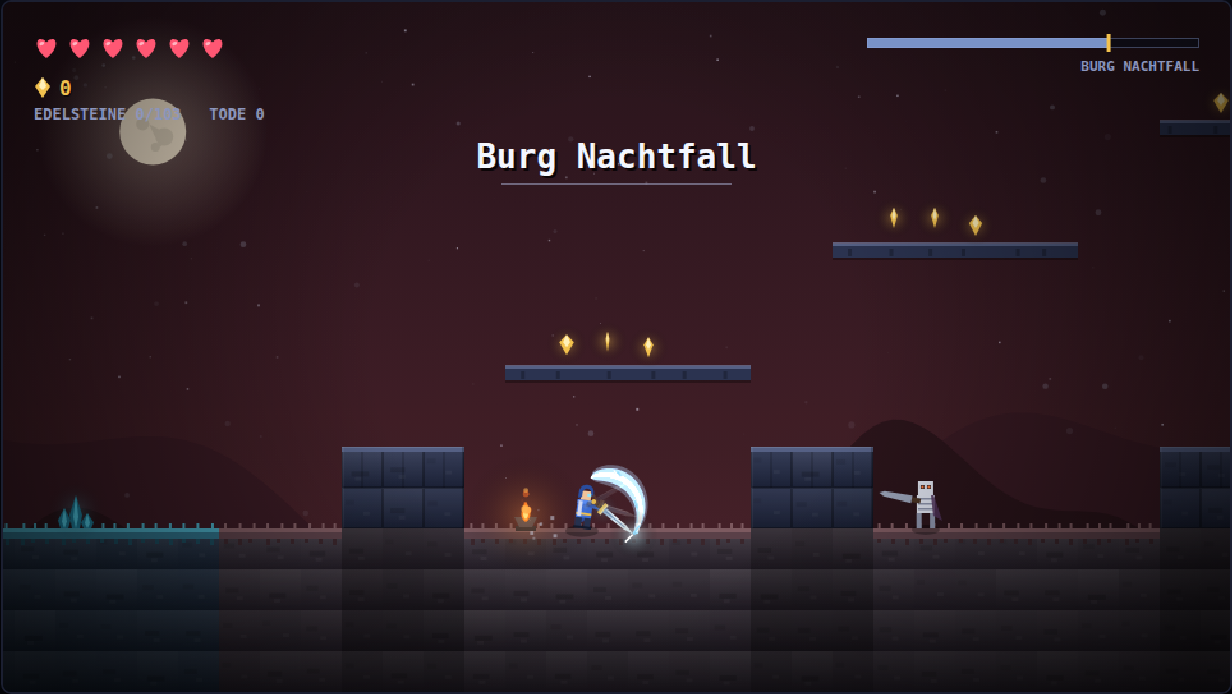
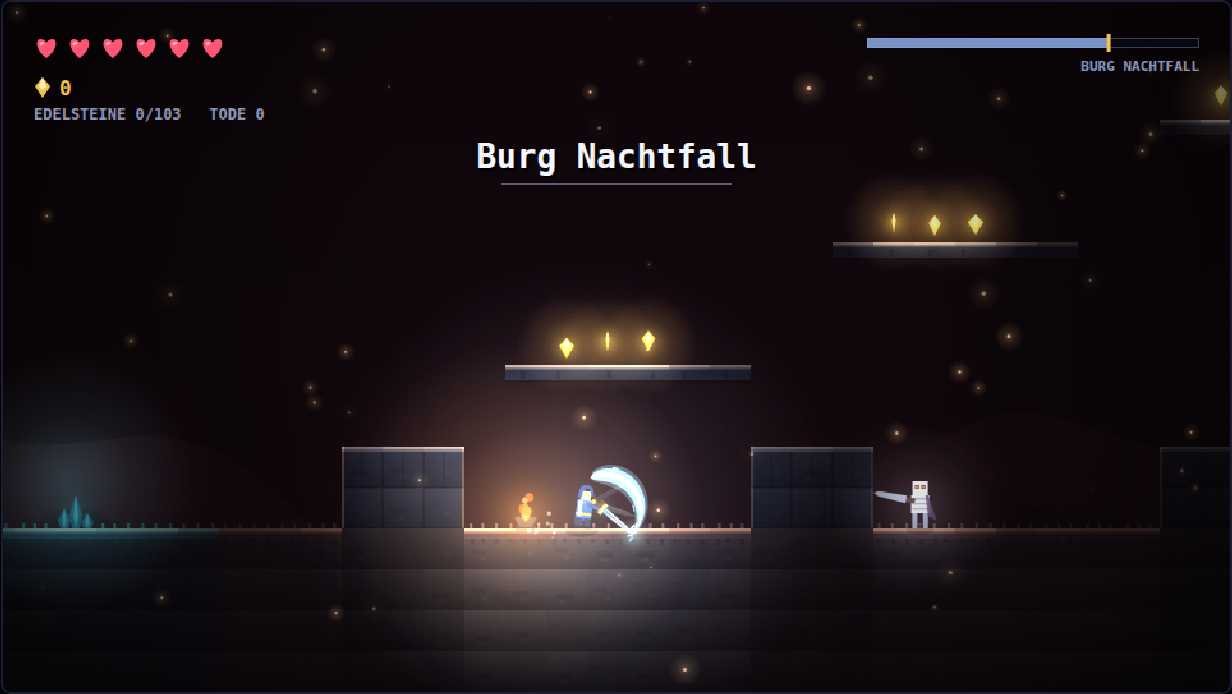
Kantenlicht folgt den Lichtquellen, Screenshots erneuert
Die zweite Bewertungsrunde erklärt den Umbau für abnehmbar: alle sechs
Ausgangsmängel behoben, mit Messwerten - Plattformkanten drei- bis achtfach
über dem Hintergrund, Fledermaus 49,6 gegen 11,5, Spieler wieder über dem
Boss-Kern, kein Clipping mehr bei den Sporen, Mond und Sterne weg.

Ein neuer Stilmangel wurde benannt und ist hiermit erledigt: Die Kantenlichter
waren überall exakt gleich hell, auch weit weg von jeder Fackel, und wirkten
dadurch wie gezeichnete Linien statt wie Licht. Jetzt hält die Kante nur noch
einen Sockel, der die Lesbarkeit sichert, und steigt zu den Lichtquellen hin
an; dazu eine leichte Körnung aus dem Kachelrauschen, damit sie nicht
mechanisch gleichmäßig wirkt.

Nebenbefund der Bewertung ebenfalls behoben: Der Kantenpass lief auch über die
Spalten außerhalb der Karte, weil tileAt dort Fels zurückgibt. Am linken
Bildrand entstand so eine Steilwand, die keine ist.

Der Pass setzt die Deckkraft jetzt über globalAlpha statt über einen rgba-String
pro Kachel - das hatte die Bildzeit von 2,9 auf 4,9 ms getrieben. Jetzt wieder
2,6 bis 3,2 ms bei 16,67 ms Budget.

Screenshots im README auf den neuen Stand gebracht. verify:level und
verify:arena grün, der Bot des Screenshot-Werkzeugs erreicht weiterhin
"victory".

Claude-Session: https://claude.ai/code/session_01EsRtGqcW8VTkgS1azrrWNy

diff --git a/src/render/rims.ts b/src/render/rims.ts
@@ -1,6 +1,7 @@
 import { Camera } from '../core/camera';
 import { Level } from '../world/level';
 import { TILE, Tile } from '../world/tiles';
+import type { Light } from './lighting';
 
 /**
  * Readability pass, drawn after the lighting.
@@ -10,6 +11,10 @@ import { TILE, Tile } from '../world/tiles';
  * which surface carries. So every face that borders empty space keeps a lit
  * rim, no matter how far away the nearest torch is. It doubles as the rim
  * lighting the style calls for.
+ *
+ * The rim is not uniform: it holds a floor bright enough to read, and rises
+ * towards the light sources near it. A rim of constant brightness reads as a
+ * drawn outline instead of light falling on an edge.
  */
 export function drawEdgeLight(
   ctx: CanvasRenderingContext2D,
@@ -18,6 +23,7 @@ export function drawEdgeLight(
   viewW: number,
   viewH: number,
   rgb: string,
+  lights: readonly Light[],
 ): void {
   const camX = camera.renderX;
   const camY = camera.renderY;
@@ -35,32 +41,54 @@ export function drawEdgeLight(
     return tile === Tile.Solid || tile === Tile.Earth;
   };
 
+  /** How much light reaches a point, 0..1, from the same sources as the pass. */
+  const litness = (wx: number, wy: number): number => {
+    let sum = 0;
+    for (const light of lights) {
+      const dx = wx - light.x;
+      const dy = wy - light.y;
+      const d2 = dx * dx + dy * dy;
+      const r = light.radius;
+      if (d2 > r * r) continue;
+      sum += light.strength * (1 - Math.sqrt(d2) / r);
+      if (sum >= 1) return 1;
+    }
+    return sum;
+  };
+
   ctx.save();
   ctx.globalCompositeOperation = 'lighter';
-  for (let tx = t0; tx <= t1; tx++) {
+  // One colour, varied by globalAlpha: building an rgba string per tile costs
+  // more than the whole pass is worth.
+  ctx.fillStyle = `rgb(${rgb})`;
+  for (let tx = Math.max(0, t0); tx <= Math.min(level.width - 1, t1); tx++) {
     for (let ty = r0; ty <= r1; ty++) {
       if (!carries(tx, ty)) continue;
+      const solid = blocks(tx, ty);
+      const top = !carries(tx, ty - 1);
+      const left = solid && !blocks(tx - 1, ty);
+      const right = solid && !blocks(tx + 1, ty);
+      if (!top && !left && !right) continue;
+
       const x = tx * TILE - camX;
       const y = ty * TILE - camY;
+      // A floor that always reads, plus the share the nearby lights add.
+      const lit = litness(tx * TILE + TILE / 2, ty * TILE);
+      const grain = 0.86 + level.noiseAt(tx, ty) * 0.28;
 
-      // Top face: this is what the player lands on.
-      if (!carries(tx, ty - 1)) {
-        ctx.fillStyle = `rgba(${rgb},0.34)`;
+      if (top) {
+        const edge = (0.12 + lit * 0.42) * grain;
+        ctx.globalAlpha = edge;
         ctx.fillRect(x, y, TILE, 2);
-        ctx.fillStyle = `rgba(${rgb},0.13)`;
+        ctx.globalAlpha = edge * 0.38;
         ctx.fillRect(x, y + 2, TILE, 2);
       }
 
       // Vertical faces: the drop next to a ledge, and the wall of a pit.
-      if (blocks(tx, ty)) {
-        if (!blocks(tx - 1, ty)) {
-          ctx.fillStyle = `rgba(${rgb},0.2)`;
-          ctx.fillRect(x, y, 2, TILE);
-        }
-        if (!blocks(tx + 1, ty)) {
-          ctx.fillStyle = `rgba(${rgb},0.2)`;
-          ctx.fillRect(x + TILE - 2, y, 2, TILE);
-        }
+      if (left || right) {
+        ctx.globalAlpha = (0.09 + lit * 0.24) * grain;
+        if (left) ctx.fillRect(x, y, 2, TILE);
+        if (right) ctx.fillRect(x + TILE - 2, y, 2, TILE);
       }
     }
   }

diff --git a/src/game.ts b/src/game.ts
@@ -600,12 +600,13 @@ export class Game implements World {
     const blend = zoneBlend(this.player.cx);
     const darkness = blend.from.darkness + (blend.to.darkness - blend.from.darkness) * blend.t;
     const tint = mixHex(blend.from.darkTint, blend.to.darkTint, blend.t);
-    this.lightPass.draw(ctx, this.camera, this.collectLights(), darkness, tint);
+    const lights = this.collectLights();
+    this.lightPass.draw(ctx, this.camera, lights, darkness, tint);
 
     // Readability first: ledges, pit walls, then the characters themselves keep
     // a share of their own colour on top of the darkness.
     const sporeRgb = blend.t > 0.5 ? blend.to.sporeRgb : blend.from.sporeRgb;
-    drawEdgeLight(ctx, this.level, this.camera, VIEW_W, VIEW_H, sporeRgb);
+    drawEdgeLight(ctx, this.level, this.camera, VIEW_W, VIEW_H, sporeRgb, lights);
     this.drawCastLight(ctx);
 
     // Spores sit in front of the darkness, so they glow through it.
